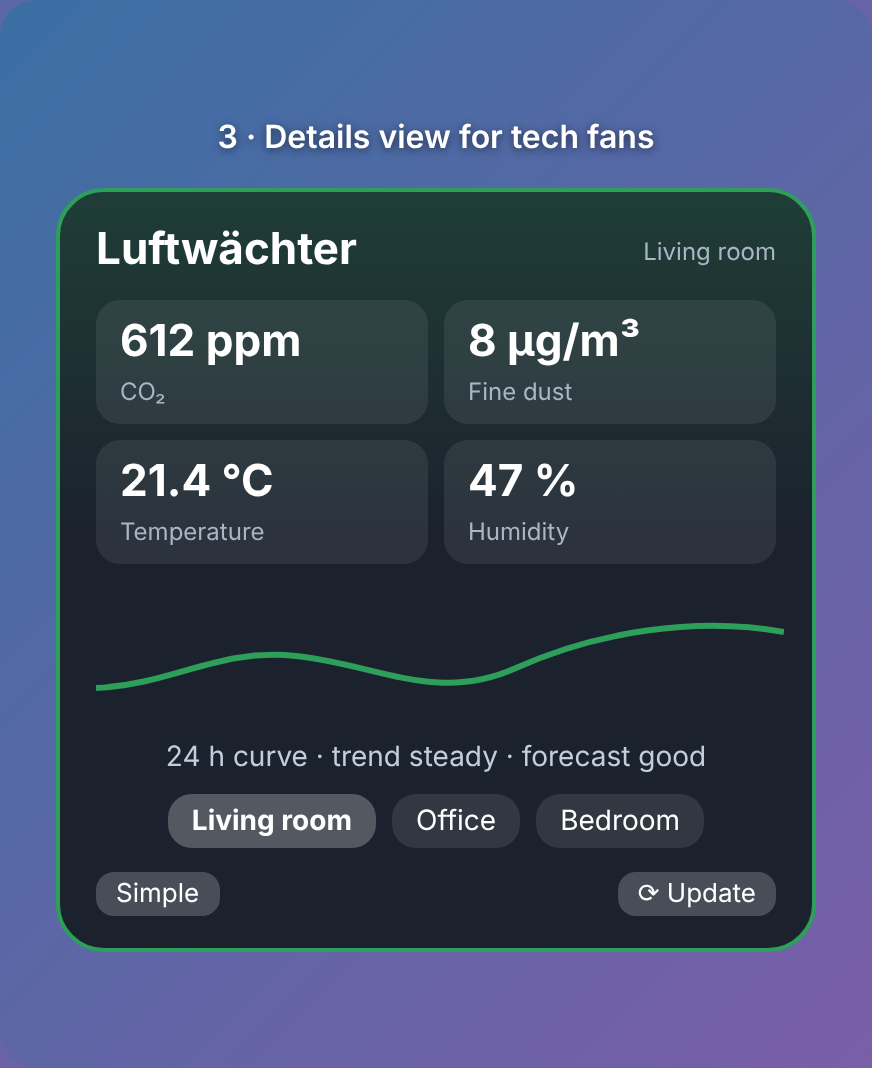
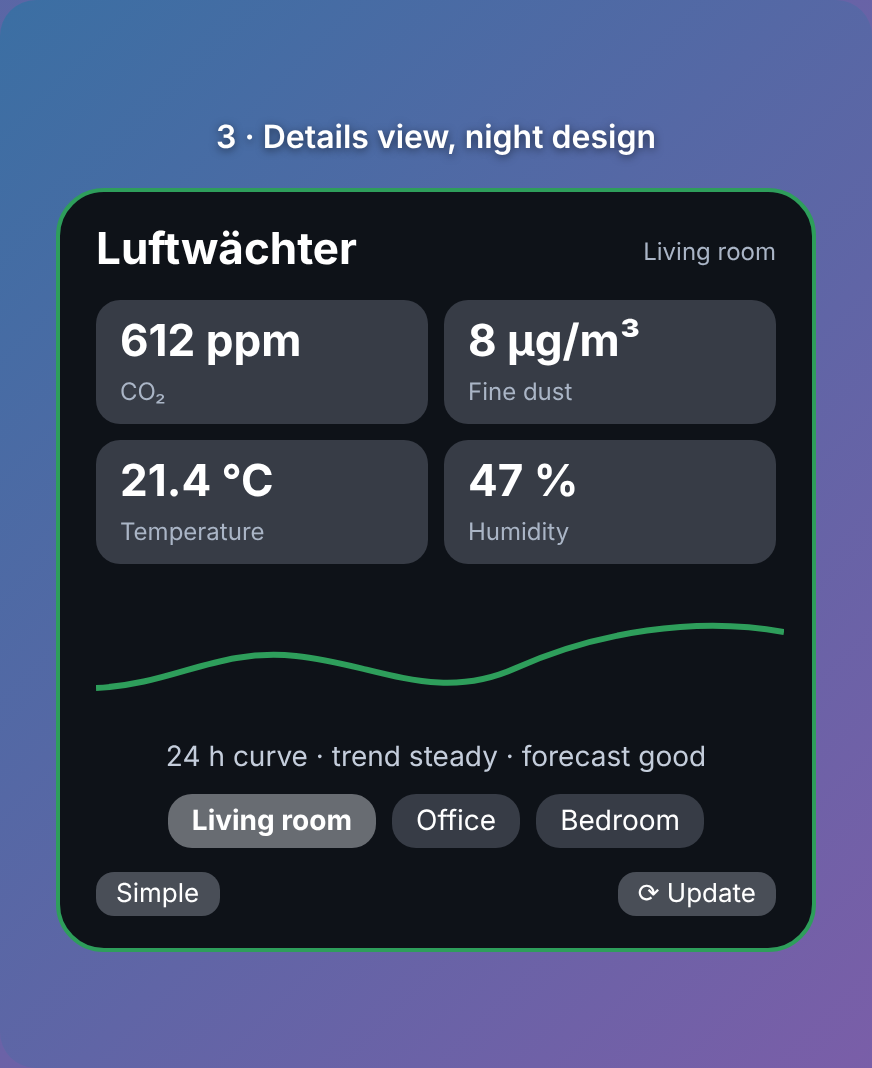
v5.10.0: double-click title toggles simple/details; refreshed screenshots
Claude-Session: https://claude.ai/code/session_01W38UNCWRvMYfcRr6jVyi8m

Changed region(s): [[0.0619, 0.1236, 0.9289, 0.4017]]

diff --git a/README.md b/README.md
@@ -24,6 +24,7 @@ A small always-on-top **Windows desktop widget** that shows how good the air is 
 - **Demo mode:** right-click → *Try the demo* shows simulated rooms, so you can try the widget without Home Assistant
 - **Day and night design:** solid, crisp colours; the background gets deeper at night, switchable by right-click → *Theme* (automatic, day, night)
 - **Quiet time:** right-click → *Quiet for 1 hour* mutes pop-up, tray notice and chime for a call or a nap
+- Double-click the title to switch between the simple and the details view
 - **Daily air score** in the simple view: "Today: good air 92 % of the time", counted from today's readings
 
 Made by **Dan Stasiak** · MIT License · [github.com/DanStasiak/airguard-widget](https://github.com/DanStasiak/airguard-widget)

diff --git a/CHANGELOG.md b/CHANGELOG.md
@@ -2,6 +2,10 @@
 
 All notable changes. Format: [Semantic Versioning](https://semver.org). The text of each release section is shown to users in the in-app update dialog.
 
+## [5.10.0] - 2026-11-22
+- New: double-click the title to switch between the simple view and the details view (the Details button still works).
+- Docs: screenshots on the GitHub page now show the solid day and night design.
+
 ## [5.9.1] - 2026-11-22
 - Changed: the title area at the top no longer opens GitHub, so you can grab it and move the window without surprises. The GitHub link stays in the footer.
 
